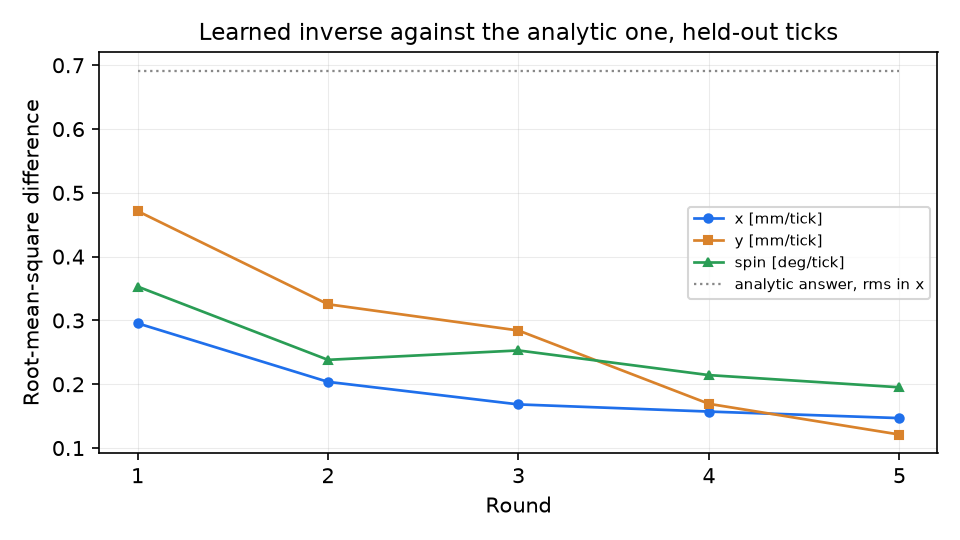
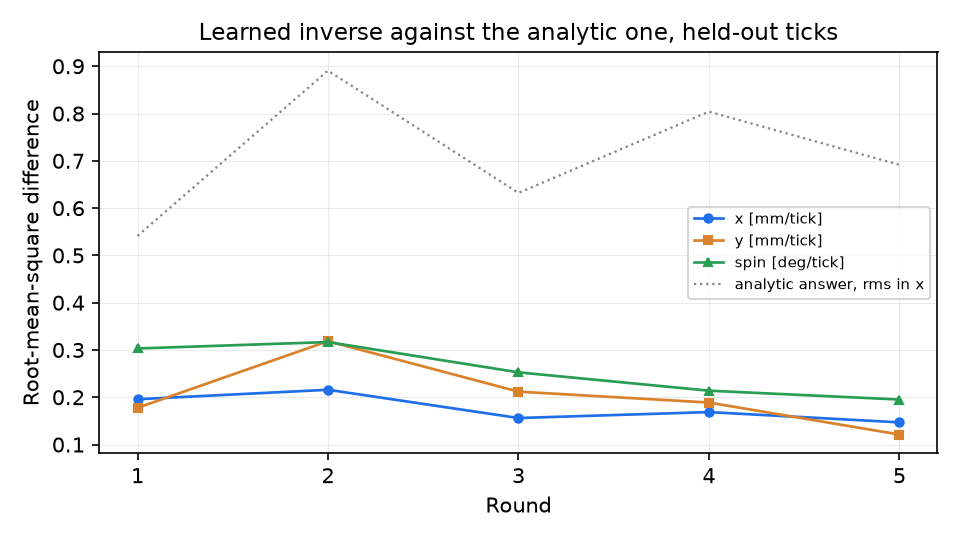
Fix the campaign figures' legends and the sparse-task line, print the recheck row
Legends that covered data in the success and prediction figures move outside the
axes; a task evaluated only in the first and last round no longer draws a connecting
line across the rounds it wasn't measured in; the action-error figure's title, axis
label and legend carry units instead of reading as captions. The placement table
gains the round-5 analytic recheck row it was silently dropping.

Only the action-error figure is regenerated here, since it is the only one whose
underlying numbers changed with the score-round fix; the other three are unchanged
pixel for pixel and are due for one --curves-only pass to pick up the legend and
line changes.

Claude-Session: https://claude.ai/code/session_01HD3mMEkNC6Z1TH7gLTdMMh

diff --git a/brick_builder/campaign/curves.py b/brick_builder/campaign/curves.py
@@ -64,18 +64,32 @@ def _primary(rows: Sequence[dict]) -> list[dict]:
     return list(best.values())
 
 
+def _runs(values: Sequence[int]) -> list[list[int]]:
+    """Split ascending round numbers into consecutive runs, so a sparse task's rounds are never
+    joined by a line across the rounds it was not evaluated in."""
+    out: list[list[int]] = []
+    for v in values:
+        if out and v - out[-1][-1] == 1:
+            out[-1].append(v)
+        else:
+            out.append([v])
+    return out
+
+
 def success_figure(rows: Sequence[dict], out_path: Path) -> Path:
     """Seated on the target cell against the round, one panel per task, both inverses.
 
     The analytic inverse is a fixed baseline measured in round 0, so it is drawn as a level line
-    across every round rather than as a series that happens to be flat.
+    across every round rather than as a series that happens to be flat. A sparse task (evaluated
+    in some rounds only) draws no line across the rounds in between: a straight segment there
+    would show a trend across rounds that were never measured.
     """
     plt = _plt()
     rows = _primary(rows)
     tasks = [t for t in ("placement", "pick_and_place", "build_2")
              if any(r["task"] == t for r in rows)]
     rounds = sorted({r["round"] for r in rows})
-    fig, axes = plt.subplots(1, len(tasks), figsize=(4.0 * len(tasks), 3.6), dpi=150,
+    fig, axes = plt.subplots(1, len(tasks), figsize=(4.0 * len(tasks), 4.3), dpi=150,
                              squeeze=False)
     for ax, task in zip(axes[0], tasks):
         learned = sorted([r for r in rows if r["task"] == task and r["inverse"] == "learned"],
@@ -83,12 +97,17 @@ def success_figure(rows: Sequence[dict], out_path: Path) -> Path:
         analytic = [r for r in rows if r["task"] == task and r["inverse"] == "analytic"]
         colour = TASK_COLOUR.get(task, "#1f6feb")
         if learned:
-            x = [r["round"] for r in learned]
-            y = [100.0 * r["success_rate"] for r in learned]
-            lo = [100.0 * (r["success_rate"] - r["wilson_low"]) for r in learned]
-            hi = [100.0 * (r["wilson_high"] - r["success_rate"]) for r in learned]
-            ax.errorbar(x, y, yerr=[lo, hi], color=colour, marker="o", markersize=4,
-                        linewidth=1.4, capsize=3, label="learned inverse")
+            by_round = {r["round"]: r for r in learned}
+            for i, run in enumerate(_runs(sorted(by_round))):
+                run_rows = [by_round[v] for v in run]
+                x = [r["round"] for r in run_rows]
+                y = [100.0 * r["success_rate"] for r in run_rows]
+                lo = [100.0 * (r["success_rate"] - r["wilson_low"]) for r in run_rows]
+                hi = [100.0 * (r["wilson_high"] - r["success_rate"]) for r in run_rows]
+                ax.errorbar(x, y, yerr=[lo, hi], color=colour, marker="o", markersize=4,
+                            linestyle="-" if len(run) > 1 else "none", linewidth=1.4,
+                            elinewidth=1.2, capsize=3,
+                            label="learned inverse" if i == 0 else None)
         if analytic:
             base = 100.0 * analytic[0]["success_rate"]
             ax.axhline(base, color="#444444", linewidth=1.2, linestyle="--",
@@ -103,7 +122,8 @@ def success_figure(rows: Sequence[dict], out_path: Path) -> Path:
         ax.set_ylim(-5, 105)
         ax.set_xticks(rounds)
         ax.grid(alpha=0.25, linewidth=0.5)
-        ax.legend(fontsize=7, loc="lower right")
+        ax.legend(fontsize=6.5, loc="upper center", bbox_to_anchor=(0.5, -0.22),
+                 borderaxespad=0.0, frameon=False)
     axes[0][0].set_ylabel("Seated on target cell [%]")
     fig.suptitle("Closed-loop success against training round [%]", fontsize=11)
     fig.tight_layout()
@@ -136,7 +156,8 @@ def prediction_figure(rows: Sequence[dict], out_path: Path) -> Path:
     ax.set_title("One-step prediction error against training round [mm]", fontsize=11)
     ax.grid(alpha=0.25, linewidth=0.5)
     if drawn:
-        ax.legend(fontsize=7)
+        ax.legend(fontsize=7, loc="upper left", bbox_to_anchor=(1.02, 1.0),
+                 borderaxespad=0.0, frameon=False)
     fig.tight_layout()
     return _save(fig, out_path)
 
@@ -165,12 +186,12 @@ def action_figure(state: dict, out_path: Path) -> Path:
         ax.plot(x, rmse_s, "-^", markersize=4, linewidth=1.3, color="#2a9d55",
                 label="spin [deg/tick]")
         ax.plot(x, base_x, ":", linewidth=1.1, color="#888888",
-                label="analytic answer, rms in x")
+                label="analytic RMS, x [mm/tick]")
         ax.legend(fontsize=7)
         ax.set_xticks(x)
     ax.set_xlabel("Round")
-    ax.set_ylabel("Root-mean-square difference")
-    ax.set_title("Learned inverse against the analytic one, held-out ticks", fontsize=11)
+    ax.set_ylabel("RMS error [mm/tick, deg/tick]")
+    ax.set_title("Action error against the analytic inverse", fontsize=11)
     ax.grid(alpha=0.25, linewidth=0.5)
     fig.tight_layout()
     return _save(fig, out_path)
@@ -197,7 +218,7 @@ def data_figure(state: dict, out_path: Path) -> Path:
         ax.set_xticks(x)
     lines = ax.get_lines() + twin.get_lines()
     ax.legend(lines, [line.get_label() for line in lines], fontsize=7, loc="lower right")
-    ax.set_title("Log accumulated by round", fontsize=11)
+    ax.set_title("Training data by round [ticks, episodes]", fontsize=11)
     fig.tight_layout()
     return _save(fig, out_path)
 
@@ -205,7 +226,7 @@ def data_figure(state: dict, out_path: Path) -> Path:
 def _save(fig, out_path: Path) -> Path:
     out_path = Path(out_path)
     out_path.parent.mkdir(parents=True, exist_ok=True)
-    fig.savefig(out_path)
+    fig.savefig(out_path, bbox_inches="tight")
     fig.clf()
     _plt().close(fig)
     return out_path

diff --git a/brick_builder/campaign/tables.py b/brick_builder/campaign/tables.py
@@ -55,6 +55,17 @@ def task_table(rows: Sequence[dict], task: str) -> str:
     if task in PUBLISHED_TEXT:
         lines.append(f"| published | ground truth | -- | {PUBLISHED_TEXT[task]} | -- | -- | "
                      "-- | -- | -- | -- | -- | -- |")
+    recheck = next((r for r in analytic[1:] if r["predictor"] == "analytic"
+                    and r["round"] != analytic[0]["round"]), None) if analytic else None
+    if recheck:
+        lines.append(
+            f"| recheck (round {recheck['round']}) | analytic | -- | "
+            f"{recheck['seated_on_target']} | "
+            f"{100 * recheck['wilson_low']:.0f}-{100 * recheck['wilson_high']:.0f} % | "
+            f"{recheck['bricks_on_target']} | "
+            f"{_fmt(recheck['lateral_mm_median'])} | {_fmt(recheck['median_tracking_mm'])} | "
+            f"{_fmt(recheck['median_prediction_mm'])} | {_fmt(recheck['ticks_align'], 0)} | "
+            "-- | -- |")
     for r in learned:
         lines.append(
             f"| {r['round']} | learned | {r['version']} | {r['seated_on_target']} | "
